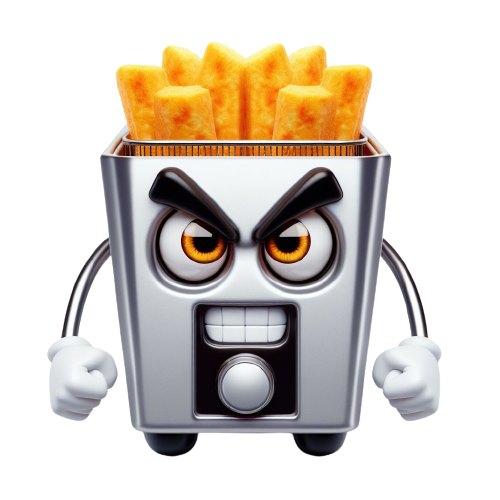
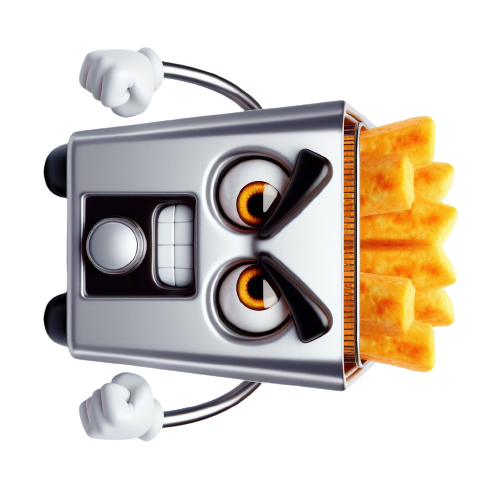
CHange player  orientation

diff --git a/src/server/main.py b/src/server/main.py
@@ -82,15 +82,15 @@ def initArena():
     arbitre.ruleArena("colisions", [False, False, False, ])
     arbitre.ruleArena("pImgs", ["https://raw.githubusercontent.com/RomainLvr/PotatoBlast/main/src/server/res/fryer.png",
                                 "https://raw.githubusercontent.com/RomainLvr/PotatoBlast/main/src/server/res/referee.png",
-                                "", ])
+                                ""])
     arbitre.ruleArena("range", [0, 0, 0])
     arbitre.ruleArena("dtMove", [10, 10, 10])
     time.sleep(0.3)
     arbitre.update()
 
-    arbitre.ruleArena("weapons", ["", "oil", ])
+    arbitre.ruleArena("weapons", ["", "oil"])
     arbitre.ruleArena("fireImgs", ["",
-                                   "https://raw.githubusercontent.com/RomainLvr/PotatoBlast/main/src/server/res/oil-drop.png", ])
+                                   "https://raw.githubusercontent.com/RomainLvr/PotatoBlast/main/src/server/res/oil-drop.png"])
     arbitre.ruleArena("infiniteAmmo", [True, True, True, ])
     arbitre.ruleArena("dtMove", [150, 10, 150, ])
     arbitre.ruleArena("collision", [False, False, True, ])
@@ -101,8 +101,6 @@ def initArena():
 initArena()
 # Boucle principale pour actualiser l'arbitre 
 while True:
-    # Changement d'orientation de l'arbitre pour montrer qu'il est actif dans l'arène
-    arbitre.lookAt((arbitre.dir + 1) % 4)
     # arbitre.ruleArena("info", "testest")
     newRange = copy.deepcopy(arbitre.range)
 
